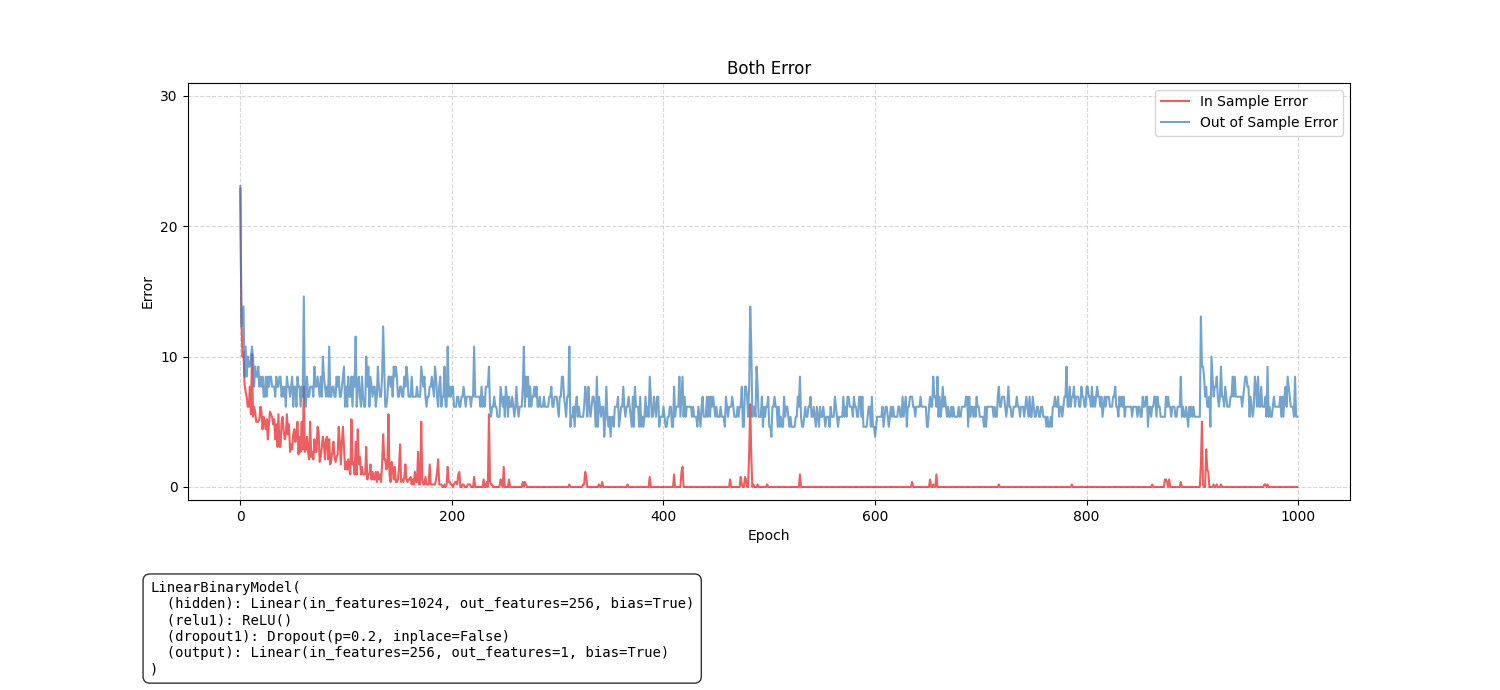
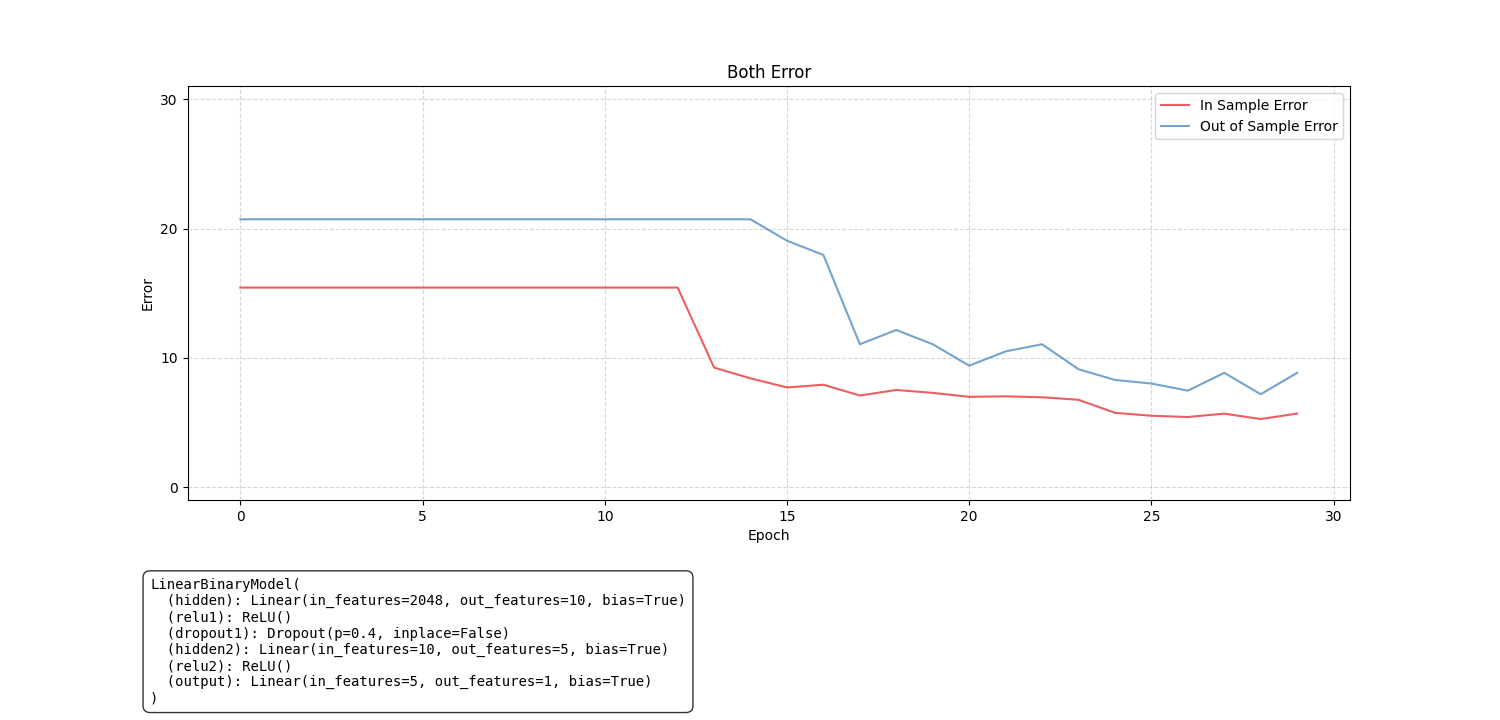
updating my branch

diff --git a/train_linear_aelfric0.py b/train_linear_aelfric0.py
@@ -28,14 +28,14 @@ print("Using device:", device)
 config: dict = {
     "author": "Emma",
     "input_dim": 2048,
-    "hidden_dims": [10, 5],
+    "hidden_dims": [128, 64],
     "optimizer": "Adam",
     "weight_decay": None,
     "dropout_rates": [0.4],
     "num_epochs": 30,
     "batch_size": 32,
     "test_split": 0.5,
-    "aelfric_threshold": 0.2,
+    "aelfric_threshold": 0.4,
     "learning_rate": 5e-5,
     "random_seed": 11,
     "num_samples": int(1e4),
@@ -603,10 +603,10 @@ def main():
 
     logger = setup_logging()
 
-    model_loaded = False  # Set to True if you want to load a pre-trained model instead of training a new one
+    model_loaded = False # Set to True if you want to load a pre-trained model instead of training a new one
 
     if model_loaded:
-        model_path = "models/linear_model (94_76_99) (10_18_2026 22-32).pth"  # Update with your model path
+        model_path = "models/linear_model (92_80_96) (10_19_2026 18-30).pth"  # Update with your model path
         #model_path = "models/linear_model E(95_81_99) (10_12_2026 16-52).pth"
         model = load_model(model_path)
 
